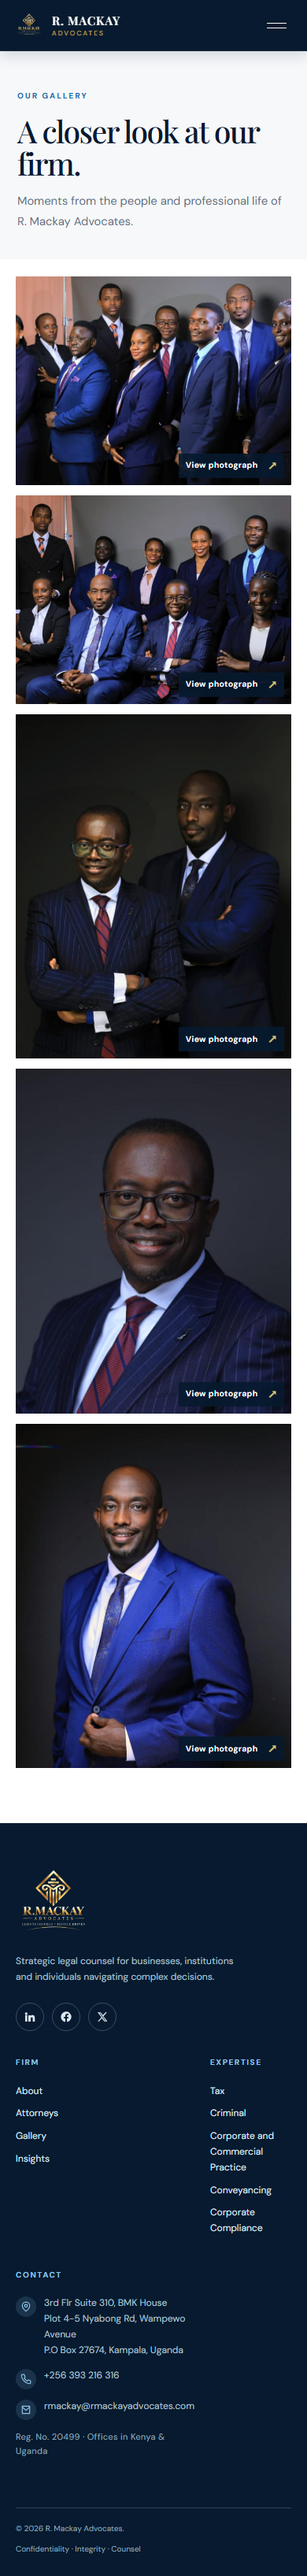
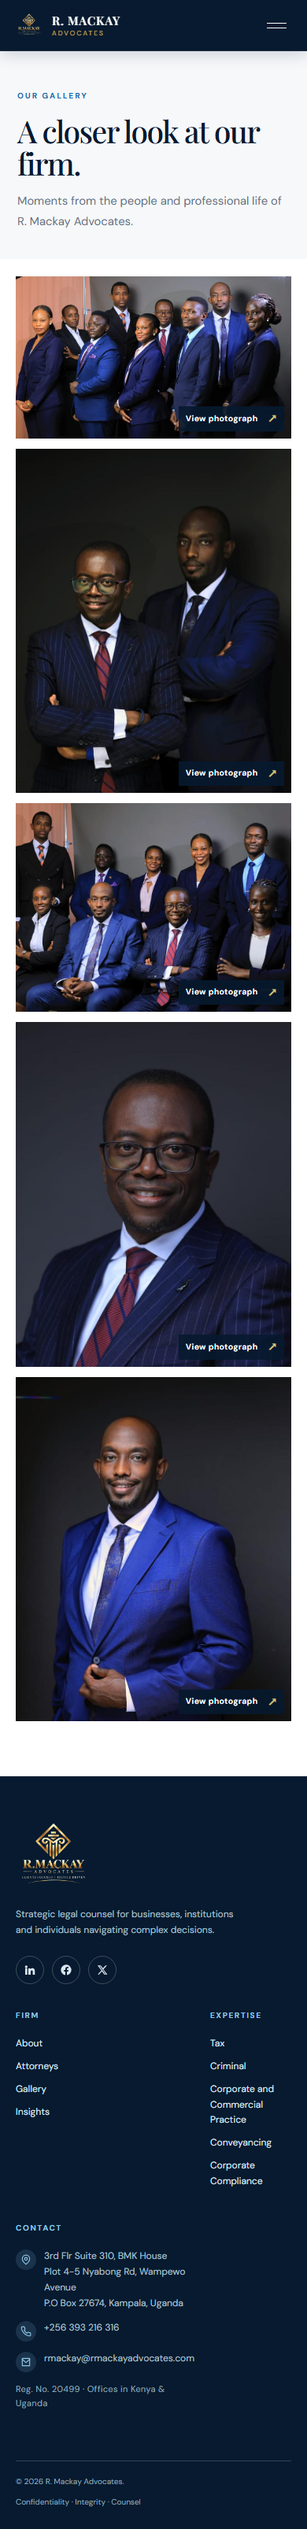
changes

diff --git a/src/styles.css b/src/styles.css
@@ -1085,15 +1085,15 @@ footer .social-icon:hover { transform: translateY(-2px); }
 .gallery-preview-heading > p { max-width: 330px; margin: 0 0 5px; color: var(--muted); font-size: .95rem; }
 .gallery-grid { display: grid; gap: 16px; min-width: 0; }
 .gallery-grid--preview { grid-template-columns: repeat(4, minmax(0, 1fr)); grid-auto-rows: clamp(120px, 13vw, 185px); grid-auto-flow: dense; }
-.gallery-grid--page { grid-template-columns: repeat(3, minmax(0, 1fr)); grid-auto-rows: clamp(190px, 20vw, 280px); grid-auto-flow: dense; }
+.gallery-grid--page { grid-template-columns: repeat(3, minmax(0, 1fr)); grid-auto-rows: clamp(170px, 15vw, 205px); grid-auto-flow: dense; }
 .gallery-tile { position: relative; display: block; min-width: 0; width: 100%; height: 100%; padding: 0; overflow: hidden; border: 0; border-radius: 1px; background: var(--navy); color: white; cursor: zoom-in; text-align: left; }
 .gallery-tile img { display: block; width: 100%; height: 100%; object-fit: cover; object-position: center 35%; transition: transform .45s cubic-bezier(.22, 1, .36, 1), opacity .3s; }
-.gallery-tile--landscape img { object-position: center; }
+.gallery-tile--landscape img { object-position: center 25%; }
 .gallery-tile:hover img, .gallery-tile:focus-visible img { transform: scale(1.025); }
 .gallery-tile--featured { grid-column: span 2; grid-row: span 2; }
-.gallery-grid--page .gallery-tile--landscape { grid-column: span 2; }
-.gallery-grid--page .gallery-tile--portrait { grid-row: auto; }
-.gallery-grid--page .gallery-tile--featured { grid-row: auto; }
+.gallery-grid--page .gallery-tile:nth-child(1) { grid-column: span 2; grid-row: span 2; }
+.gallery-grid--page .gallery-tile:nth-child(2) { grid-column: span 1; grid-row: span 2; }
+.gallery-grid--page .gallery-tile:nth-child(n+3) { grid-column: span 1; grid-row: span 1; }
 .gallery-tile-open { position: absolute; right: 12px; bottom: 12px; display: flex; align-items: center; gap: 13px; padding: 9px 11px; background: rgba(7,26,47,.9); color: #fff; font: 600 .65rem/1 var(--sans); letter-spacing: .04em; opacity: 0; transform: translateY(4px); transition: opacity .2s, transform .2s; }
 .gallery-tile-open span { color: #ddc17c; font-size: .95rem; }
 .gallery-tile:hover .gallery-tile-open, .gallery-tile:focus-visible .gallery-tile-open { opacity: 1; transform: translateY(0); }
@@ -1121,8 +1121,9 @@ footer .social-icon:hover { transform: translateY(-2px); }
 @keyframes galleryFadeIn { from { opacity: 0; } to { opacity: 1; } }
 @media (max-width: 900px) {
   .gallery-grid--preview { grid-template-columns: repeat(2, minmax(0, 1fr)); grid-auto-rows: clamp(170px, 28vw, 240px); }
-  .gallery-grid--page { grid-template-columns: repeat(2, minmax(0, 1fr)); grid-auto-rows: clamp(205px, 34vw, 300px); }
-  .gallery-grid--page .gallery-tile--landscape { grid-column: span 2; }
+  .gallery-grid--page { grid-template-columns: repeat(2, minmax(0, 1fr)); grid-auto-rows: auto; grid-auto-flow: row; }
+  .gallery-grid--page .gallery-tile { grid-column: auto; grid-row: auto; height: auto; aspect-ratio: 1.2; }
+  .gallery-grid--page .gallery-tile:nth-child(1) { grid-column: 1 / -1; aspect-ratio: 1.7; }
   .gallery-page-content { padding-top: 32px; }
 }
 @media (max-width: 600px) {

diff --git a/src/data/siteData.js b/src/data/siteData.js
@@ -197,30 +197,35 @@ export const galleryImages = [
   {
     id: 'firm-team-portrait', image: 'about-team.jpeg',
     alt: 'Members of R. Mackay Advocates standing together for a team photograph.',
+    imagePosition: 'center 0%',
     width: 1080, height: 627, orientation: 'landscape', homepageFeatured: true,
-    category: null, title: null, caption: null,
-  },
-  {
-    id: 'firm-team-group', image: 'hero-team.jpeg',
-    alt: 'R. Mackay Advocates team pictured together in two rows.',
-    width: 1080, height: 719, orientation: 'landscape', homepageFeatured: true,
     category: null, title: null, caption: null,
   },
   {
     id: 'managing-partners', image: 'R Mackay Advocates leadership pair.jpg',
     alt: 'Managing Partners Robert Mackay and Richard Rugambwa standing together.',
+    imagePosition: 'center 30%',
     width: 777, height: 1080, orientation: 'portrait', homepageFeatured: true,
+    category: null, title: null, caption: null,
+  },
+  {
+    id: 'firm-team-group', image: 'hero-team.jpeg',
+    alt: 'R. Mackay Advocates team pictured together in two rows.',
+    imagePosition: 'center 0%',
+    width: 1080, height: 719, orientation: 'landscape', homepageFeatured: true,
     category: null, title: null, caption: null,
   },
   {
     id: 'robert-mackay-portrait', image: 'Robert Mackay portrait.jpg',
     alt: 'Robert Mackay, Managing Partner of R. Mackay Advocates.',
+    imagePosition: 'center 38%',
     width: 719, height: 1080, orientation: 'portrait', homepageFeatured: true,
     category: null, title: null, caption: null,
   },
   {
     id: 'richard-rugambwa-portrait', image: 'Richard Rugambwa portrait.jpg',
     alt: 'Richard Rugambwa, Managing Partner of R. Mackay Advocates.',
+    imagePosition: 'center 38%',
     width: 719, height: 1080, orientation: 'portrait', homepageFeatured: true,
     category: null, title: null, caption: null,
   },

diff --git a/src/components/GalleryImageGrid.jsx b/src/components/GalleryImageGrid.jsx
@@ -32,6 +32,7 @@ export default function GalleryImageGrid({ items, variant = 'page' }) {
               loading={variant === 'page' && index < 3 ? 'eager' : 'lazy'}
               fetchPriority={variant === 'page' && index === 0 ? 'high' : 'auto'}
               decoding="async"
+              style={{ objectPosition: item.imagePosition || undefined }}
             />
             <span className="gallery-tile-open" aria-hidden="true">View photograph <span>↗</span></span>
           </button>
